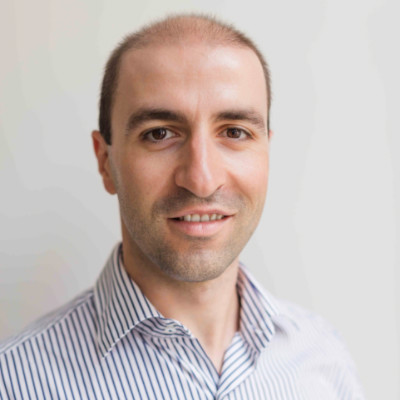
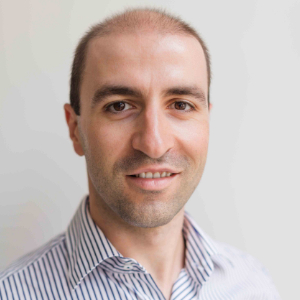
Cleanup images and about page

Changed region(s): [[0.0, 0.0, 0.75, 1.0]]

diff --git a/about.md b/about.md
@@ -4,11 +4,14 @@ title: About me
 modified: 2014-03-04
 ---
 
-![Self portrait]({{ site.url }}/images/about_me.jpg){: .align-left}
+<figure style="width: 200px; height: 200px; margin-bottom: 2rem" class="align-left">
+  <img src="{{ '/images/profile-pic.jpg' | absolute_url }}" alt=""/>
+  <figcaption>
+    <a href="{{ site.url }}/documents/cv/Lyubomir_Ganev_CV.pdf" style="width: 200px" class="btn btn--primary">Download CV</a>
+  </figcaption>
+</figure> 
 
 Hello, my name is Lyubomir and I am a software engineer. I love mobile development and particularly Android. Through the years I have worked in different areas of the software development - from desktop applications, through backend and frontend web development and finally landing in the mobile domain. I always enjoy trying out new stuff and doing some programming during my free time. My other hobbies are photography and latin dances. When I am not coding you could usually meet me walking down the city streets searching for the perfect shot or dancing my shoes off at the local salsa club.
-
-[Download CV]({{ site.url }}/documents/cv/Lyubomir_Ganev_CV.pdf){: .btn .btn--primary}
 
 If you are interested in the stuff I do for fun or profit just look around the website, for example starting at the [__Blog__]({{ site.url }}/blog) or check out the Projects below. Further, you can find me on various other websites by just visiting the links at the bottom of the page.
 
@@ -17,7 +20,7 @@ If you are interested in the stuff I do for fun or profit just look around the w
 ### ThinxNet
 ThinxNet is a fast-growing Startup, based in Munich, Germany, striving to make the Internet of Things happen. The main focus lies on the automotive sector, where the team uses cloud-based, state-of-the-art technology to pursue the vision of making our streets a safer and more efficient place. ThinxNet is crafting the future of mobility in new, exciting ways improving the driving experience through intelligent, connected solutions.
 
-<a href="https://play.google.com/store/apps/details?id=com.thinxnet.native_tanktaler_android"><img src="{{ site.url }}/images/projects_ryd.png"></a>{: .align-left}
+<a href="https://play.google.com/store/apps/details?id=com.thinxnet.native_tanktaler_android"><img src="{{ site.url }}/images/projects_ryd.png" style="width: 4rem; height: 4rem"></a>{: .align-left}
 
 The project I mostly focus on is the Ryd app available for iOS and Android. For more information visit the official copmany website [__ThinxNet__](https://www.thinxnet.com/), the official copmany website of [__Ryd__](https://ryd.one/de-de/) or the official app listing at [__Google Play__](https://play.google.com/store/apps/details?id=com.thinxnet.native_tanktaler_android)
 
@@ -26,7 +29,7 @@ The project I mostly focus on is the Ryd app available for iOS and Android. For 
 
 Luxoft (NYSE:LXFT) is a global consulting partner that offers end-to-end digital solutions to solve clients’ complex business challenges. My tasks were focused in working with partners from the automotive industry such as BMW. 
 
-<a href="https://play.google.com/store/apps/details?id=de.bmw.connected"><img src="{{ site.url }}/images/projects_bmw_connected.png"></a>{: .align-left}
+<a href="https://play.google.com/store/apps/details?id=de.bmw.connected"><img src="{{ site.url }}/images/projects_bmw_connected.png" style="width: 4rem; height: 4rem"></a>{: .align-left}
 
 One of the projects I have work on is the Android application part of BMW Connected services. For more information please visit the official listing of the app at [__Google Play__](https://play.google.com/store/apps/details?id=de.bmw.connected).
 
@@ -36,7 +39,7 @@ One of the projects I have work on is the Android application part of BMW Connec
 Bragi is developing discrete virtual assistants that enable, protect and entertain you. With the launch of The Dash in 2015, Bragi introduced the first smart Hearable to the world.
 The team envisions a future where everyone is enabled to achieve their full potential through the pioneering development of deep human machine interaction in hardware and software. For more information please visit the [__Bragi__](https://www.bragi.com) website.
 
-<a href="https://play.google.com/store/apps/details?id=com.bragi.thedash.app"><img src="{{ site.url }}/images/projects_bragi.png"></a>{: .align-left}
+<a href="https://play.google.com/store/apps/details?id=com.bragi.thedash.app"><img src="{{ site.url }}/images/projects_bragi.png" style="width: 4rem; height: 4rem"></a>{: .align-left}
 
 The Bragi App is the smart extension of The Dash, The World’s First Truly Wireless Smart Earphones. It allows you to connect your smartphone, customise controls and discover the features of The Dash. My main responsibilities in this project include architecting, building, testing and maintaining the native Android application. In addition to the app, I am involved into architecting, building, testing and maintaining the Mobile SDK for 3rd party developers as well as integrating it into cooperation projects with partner companies. I work as part of an in-house agile cross-functional software development team. For more information on this project visit the Android app at [__Google Play__](https://play.google.com/store/apps/details?id=com.bragi.thedash.app)
 
@@ -45,50 +48,50 @@ The Bragi App is the smart extension of The Dash, The World’s First Truly Wire
 
 Jochen Schweizer GmbH is a market leader in Germany for adventures and experiences. The company offers over 1,700 different activities for all tastes and ages: adrenaline-packed adventures full of action, fascinating outdoor activities for the whole family and feel-good experiences to relax and enjoy. The experience offers can be booked either online or in more than 40 Jochen Schweizer shops in Germany and Austria in the form of vouchers or as an experience box.
 
-<a href="https://play.google.com/store/apps/details?id=de.jochen_schweizer.jsnow"><img src="{{ site.url }}/images/projects_jochenschweizer_android.png"></a>{: .align-left}
+<a href="https://play.google.com/store/apps/details?id=de.jochen_schweizer.jsnow"><img src="{{ site.url }}/images/projects_jochenschweizer_android.png" style="width: 4rem; height: 4rem"></a>{: .align-left}
 
-<a href="https://itunes.apple.com/de/app/jochen-schweizer-deine-freizeit/id944153254?l=en&mt=8"><img src="{{ site.url }}/images/projects_jochenschweizer_ios.png"></a>{: .align-left}
+<a href="https://itunes.apple.com/de/app/jochen-schweizer-deine-freizeit/id944153254?l=en&mt=8"><img src="{{ site.url }}/images/projects_jochenschweizer_ios.png" style="width: 4rem; height: 4rem"></a>{: .align-left}
 
 With the Jochen Schweizer app users can easily find and book experiences taking place on a specific date and time and at particular location. My main responsibilities in this project include building, testing and maintaining the native Android and iOS applications. I work as part of an in-house agile cross-functional software development team. For more information on this project visit the [__Jochen Schweizer App__](http://www.jochen-schweizer.de/landingpage/erlebnis-app,default,pg.html/) website or check out the iOS app at the [__App Store__](https://itunes.apple.com/de/app/jochen-schweizer-deine-freizeit/id944153254?l=en&mt=8) or the Android app at [__Google Play__](https://play.google.com/store/apps/details?id=de.jochen_schweizer.jsnow)
 
 <div style="clear:left;"/>
 ### Spontacts
-<a href="https://play.google.com/store/apps/details?id=com.conceptworks.spontacts"><img src="{{ site.url }}/images/projects_spontacts.png"></a>{: .align-left}
+<a href="https://play.google.com/store/apps/details?id=com.conceptworks.spontacts"><img src="{{ site.url }}/images/projects_spontacts.png" style="width: 4rem; height: 4rem"></a>{: .align-left}
 Spontacts is a social community which allows members to find, participate and create numerous activities at a certain location and particular time. Through participating in activities with other community members during their free time, Spontacts members can find and contact new interesting people, who share common interests and look for interesting activities during their free time. Over a period of two months I have worked together with the in-house team on a couple of new features integrated in the native Android app. For more information visit the [__Spontacts__](https://www.spontacts.com/) website or check out the Android app at [__Google Play__](https://play.google.com/store/apps/details?id=com.conceptworks.spontacts)
 
 <div style="clear:left;"/>
 ### CHIP Online App
-<a href="https://play.google.com/store/apps/details?id=de.chip.ultimate"><img src="{{ site.url }}/images/projects_chiponline.png"></a>{: .align-left}
+<a href="https://play.google.com/store/apps/details?id=de.chip.ultimate"><img src="{{ site.url }}/images/projects_chiponline.png" style="width: 4rem; height: 4rem"></a>{: .align-left}
 CHIP Online is the number one website for computers, phones and home entertainment in Germany. The Chip Online App is available for Android and iOS as a native mobile app. Over a period of 7 months I have worked as part of an in-house team on further development of both native apps. Most of my work was focused primarily on the Android app. For more information visit the [__CHIP Apps__](http://apps.chip.de/) website or check out the Android app at [__Google Play__](https://play.google.com/store/apps/details?id=de.chip.ultimate)
 
 <div style="clear:left;"/>
 # _Private projects_
 
 ### Anidro
-<a href="https://play.google.com/store/apps/details?id=app.anidro"><img src="{{ site.url }}/images/projects_anidro.png"></a>{: .align-left}
+<a href="https://play.google.com/store/apps/details?id=app.anidro"><img src="{{ site.url }}/images/projects_anidro.png" style="width: 4rem; height: 4rem"></a>{: .align-left}
 Anidro is a fun app which brings motion to static drawings. Users can create simple drawings on their smartphone or tablet and then share an animated version of these drawings as an animated GIF or video. For more information visit the [__Google Play__](https://play.google.com/store/apps/details?id=app.anidro) page or the [__GitHub__](http://luboganev.github.io/anidro/) project page.
 
 <div style="clear:left;"/>
 ### AppDetox
-<a href="https://play.google.com/store/apps/details?id=de.dfki.appdetox"><img src="{{ site.url }}/images/projects_appdetox.png"></a>{: .align-left}
+<a href="https://play.google.com/store/apps/details?id=de.dfki.appdetox"><img src="{{ site.url }}/images/projects_appdetox.png" style="width: 4rem; height: 4rem"></a>{: .align-left}
 AppDetox is a fun research project representing an Android application. The purpose of the app is to provide heavy Android users with a tool that helps them perform self-control and tame their mobile apps usage on daily basis. Get your digital detox dose now and download the app from [__Google Play__](https://play.google.com/store/apps/details?id=de.dfki.appdetox)
 
 <div style="clear:left;"/>
 ### Dejalist
-<a href="https://github.com/luboganev/dejalist"><img src="{{ site.url }}/images/projects_dejalist.png"></a>{: .align-left}
+<a href="https://github.com/luboganev/dejalist"><img src="{{ site.url }}/images/projects_dejalist.png" style="width: 4rem; height: 4rem"></a>{: .align-left}
 Dejalist is an Open-source Android application highlighting some best practices and design guidelines on how Android native applications should be built. For more information visit the [__GitHub__](https://github.com/luboganev/dejalist) project page.
 
 <div style="clear:left;"/>
 ### Good intentions
-<a href="https://github.com/luboganev/goodintentions"><img src="{{ site.url }}/images/projects_goodintentions.png"></a>{: .align-left}
+<a href="https://github.com/luboganev/goodintentions"><img src="{{ site.url }}/images/projects_goodintentions.png" style="width: 4rem; height: 4rem"></a>{: .align-left}
 Good intentions is an Open-source Android application which helps Android developers test the behaviour of the framework or their own application related to specific Android development functionality called Intents. For more information visit the [__GitHub__](https://github.com/luboganev/goodintentions) project page.
 
 <div style="clear:left;"/>
 ### Testground
-<a href="https://github.com/luboganev/testground"><img src="{{ site.url }}/images/projects_testground.png"></a>{: .align-left}
+<a href="https://github.com/luboganev/testground"><img src="{{ site.url }}/images/projects_testground.png" style="width: 4rem; height: 4rem"></a>{: .align-left}
 Testground is the companion app of my [__Blog__]({{ site.url }}/blog). It contains demos and sample code described in posts as well as direct links to them. It is open-source so you can play around with the samples and demos and change them to match your needs. For more information visit the [__GitHub__](https://github.com/luboganev/testground) project page.
 
 <div style="clear:left;"/>
 ### Carbrands
-<a href="https://github.com/luboganev/Carbrands"><img src="{{ site.url }}/images/projects_carbrands.png"></a>{: .align-left}
+<a href="https://github.com/luboganev/Carbrands"><img src="{{ site.url }}/images/projects_carbrands.png" style="width: 4rem; height: 4rem"></a>{: .align-left}
 Carbrands is a list/detail sample application of the clean architecture posts series, which you can find in my [__Blog__]({{ site.url }}/blog). It is constantly being improved and the concepts implemented in it evolve together with the blog posts. It is open-source so you can play around with it or even use it as a skeleton app when building your own projects if you wish. You can download a compiled APK from the [__GitHub Releases section__](https://github.com/luboganev/Carbrands/releases) or build it yourself using the source code hosted at [__GitHub__](https://github.com/luboganev/Carbrands).
